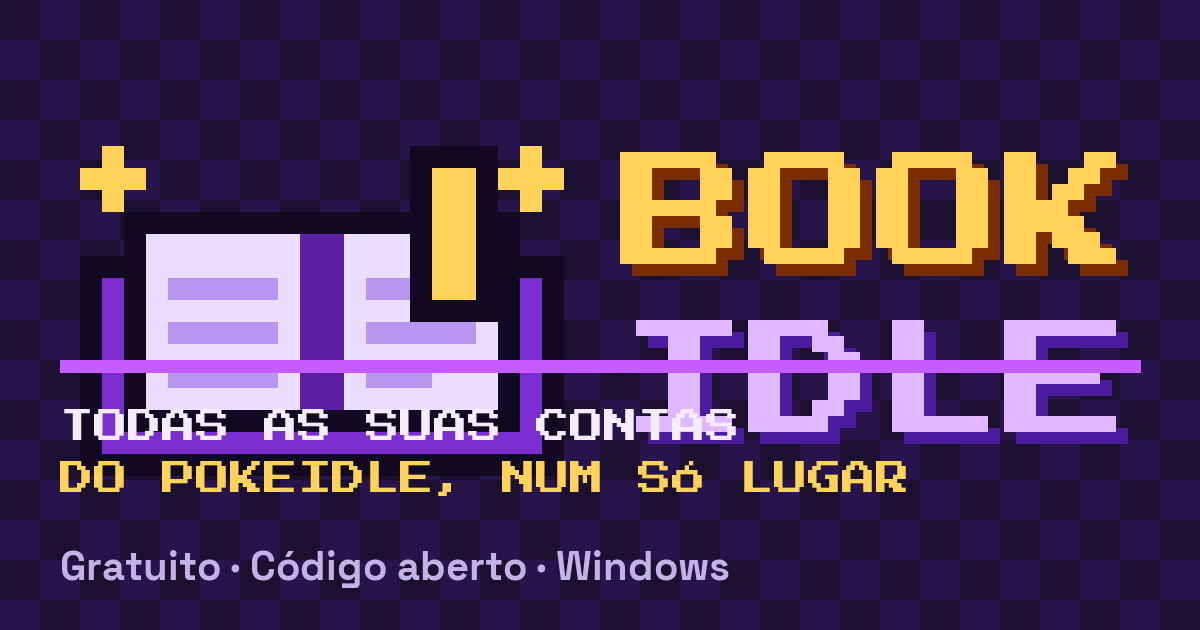
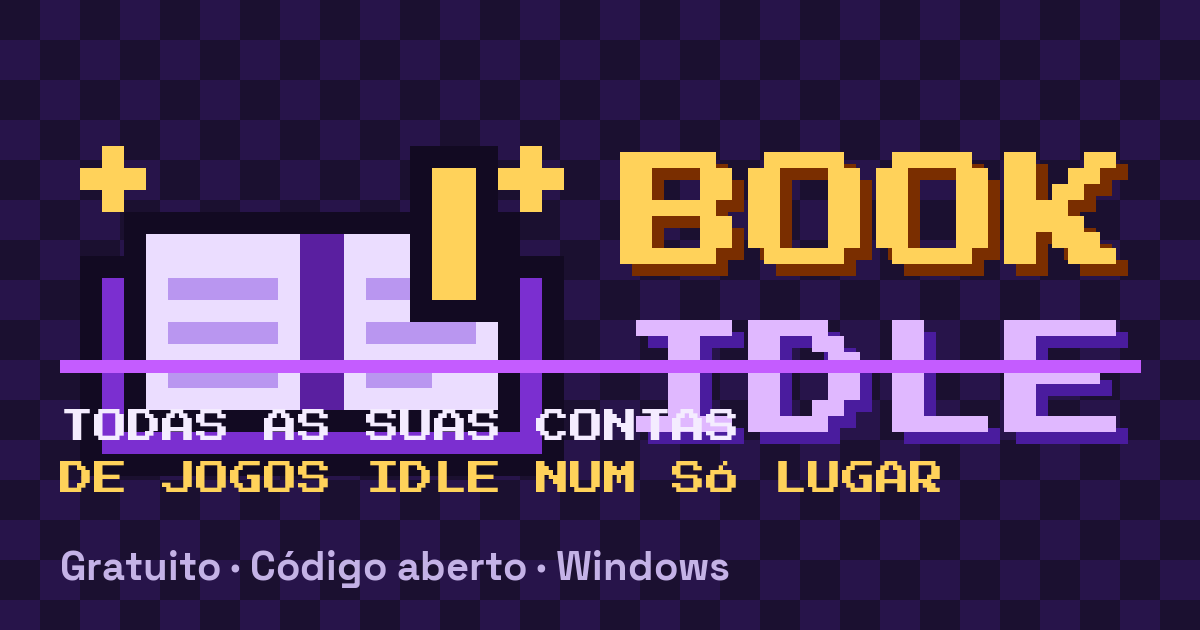
Landing page: BookIdle como gerenciador de vários jogos; pokeidle.io como primeiro jogo com suporte personalizado

Changed region(s): [[0.185, 0.7238, 0.8017, 0.7841], [0.0925, 0.7238, 0.1542, 0.7841]]

diff --git a/index.html b/index.html
@@ -3,14 +3,14 @@
 <head>
 <meta charset="utf-8">
 <meta name="viewport" content="width=device-width, initial-scale=1">
-<title>BookIdle — contas do pokeidle.io num só lugar</title>
-<meta name="description" content="BookIdle: gerenciador de contas e ferramentas para o pokeidle.io. Várias contas lado a lado, voto no TopIdle, bônus de live da Twitch, ranking de hunts e sniper do mercado. Gratuito e de código aberto, para Windows.">
+<title>BookIdle — gerenciador de contas para jogos idle</title>
+<meta name="description" content="BookIdle: gerenciador de contas para jogos idle. Várias contas lado a lado, cada uma num navegador isolado, com ferramentas personalizadas por jogo (hoje, para o pokeidle.io). Gratuito e de código aberto, para Windows.">
 <meta name="theme-color" content="#1B1030">
 <link rel="icon" href="/favicon.ico" sizes="any">
 <link rel="apple-touch-icon" href="/img/icon-192.png">
 <meta property="og:type" content="website">
-<meta property="og:title" content="BookIdle — contas do pokeidle.io num só lugar">
-<meta property="og:description" content="Várias contas lado a lado, voto no TopIdle, bônus da Twitch, hunts e sniper do mercado. Gratuito e de código aberto.">
+<meta property="og:title" content="BookIdle — gerenciador de contas para jogos idle">
+<meta property="og:description" content="Várias contas de jogos idle lado a lado, com ferramentas personalizadas por jogo. Gratuito e de código aberto.">
 <meta property="og:image" content="/img/og.png">
 <meta name="twitter:card" content="summary_large_image">
 <link rel="preload" href="/fonts/PressStart2P-Regular.ttf" as="font" type="font/ttf" crossorigin>
@@ -108,7 +108,10 @@ h1 em { font-style: normal; color: var(--yellow); }
 .card ul { margin: 0; padding-left: 20px; color: var(--muted); font-size: 16px; }
 .card li + li { margin-top: 4px; }
 .c1 .ico { background: var(--blue); } .c2 .ico { background: var(--yellow); } .c3 .ico { background: var(--purple); }
-.c4 .ico { background: var(--green); } .c5 .ico { background: var(--orange); } .c6 .ico { background: var(--pink); }
+.c4 .ico { background: var(--green); }
+.grid.four, .grid.games { grid-template-columns: repeat(auto-fit, minmax(min(100%, 440px), 1fr)); }
+.grid.games { align-items: stretch; }
+.dashed { border-style: dashed; background: transparent; box-shadow: none; } .c5 .ico { background: var(--orange); } .c6 .ico { background: var(--pink); }
 .tag { display: inline-block; font-family: var(--pixel); font-size: 9px; padding: 5px 7px; border-radius: 6px; border: 2px solid var(--outline); background: var(--field); color: var(--green); vertical-align: middle; margin-left: 6px; }
 
 /* ---- telas ---- */
@@ -166,6 +169,7 @@ footer { border-top: 3px solid var(--outline); background: var(--side); padding-
       <span>BookIdle</span>
     </a>
     <a class="link" href="#recursos">Recursos</a>
+    <a class="link" href="#jogos">Jogos</a>
     <a class="link" href="#privacidade">Privacidade</a>
     <a class="link" href="#codigo-aberto">Código aberto</a>
     <a class="link" href="#faq">Dúvidas</a>
@@ -183,22 +187,22 @@ footer { border-top: 3px solid var(--outline); background: var(--side); padding-
             <span class="badge purple">Código aberto · MIT</span>
             <span class="badge">Windows 10 e 11</span>
           </div>
-          <h1>Todas as suas contas do <em>Pokéidle</em> num só lugar</h1>
-          <p class="lead">O BookIdle abre várias contas do <strong>pokeidle.io</strong> lado a lado, lembra a hora de votar no TopIdle, mantém você presente nas lives de bônus da Twitch, mostra qual hunt rende mais e compra no mercado por você, tudo no seu computador.</p>
+          <h1>Todas as suas contas de <em>jogos idle</em> num só lugar</h1>
+          <p class="lead">O BookIdle abre várias contas lado a lado, cada uma num navegador isolado, com janelas organizadas, memória sob controle e atualização automática. Quando um jogo tem ferramentas feitas sob medida, elas aparecem aqui, no seu computador.</p>
           <div class="cta">
             <a class="btn btn-primary" href="https://github.com/PatrickKenji/BookIdle-releases/releases/latest/download/BookIdle-win-Setup.exe">Baixar para Windows</a>
             <a class="btn btn-secondary" href="https://github.com/PatrickKenji/BookIdle-releases">Ver no GitHub</a>
           </div>
-          <p class="fineprint">Instalador de ~83 MB, sem pedir administrador. Atualiza sozinho. Projeto não oficial, sem ligação com o pokeidle.io.</p>
+          <p class="fineprint">Instalador de ~83 MB, sem pedir administrador. Atualiza sozinho. Projeto independente, sem ligação com nenhum dos jogos.</p>
         </div>
         <div class="shot">
-          <img src="/img/janela-principal.png" width="1344" height="780" alt="Janela principal do BookIdle: lista de contas na lateral com botões de voto e Twitch, e o jogo aberto ao lado">
+          <img src="/img/janela-principal.png" width="1344" height="780" alt="Janela principal do BookIdle: lista de contas na lateral e o jogo aberto ao lado">
         </div>
       </div>
 
       <div class="only-banner pixel-box" role="note">
-        <span class="pixel">POR ENQUANTO</span>
-        <p><strong>O BookIdle é só para o pokeidle.io.</strong> As ferramentas (voto, Twitch, hunts, sniper) foram feitas para ele. Se o pessoal quiser, vamos trabalhar em ferramentas para <strong>outros jogos idle</strong>. <a href="https://github.com/PatrickKenji/BookIdle-releases/discussions">Diga qual jogo você quer</a>.</p>
+        <span class="pixel">EM EVOLUÇÃO</span>
+        <p><strong>O BookIdle é um gerenciador para vários jogos idle.</strong> As ferramentas personalizadas por jogo são criadas conforme a necessidade de quem joga. <strong>Hoje temos suporte personalizado para o pokeidle.io</strong>; os próximos dependem de você. <a href="#jogos">Veja os jogos</a>.</p>
       </div>
     </div>
   </section>
@@ -206,61 +210,79 @@ footer { border-top: 3px solid var(--outline); background: var(--side); padding-
   <section id="recursos">
     <div class="wrap">
       <div class="section-head">
-        <h2>Tudo para o pokeidle.io</h2>
-        <p class="lead">Pense nele como o painel de controle das suas contas.</p>
+        <h2>Para qualquer jogo idle</h2>
+        <p class="lead">O painel de controle das suas contas, seja qual for o jogo de navegador.</p>
       </div>
-      <div class="grid">
+      <div class="grid four">
         <article class="card pixel-box c1">
           <div class="ico" aria-hidden="true">🗂</div>
           <h3>Contas lado a lado</h3>
-          <p>Cada conta tem o próprio navegador isolado, então as sessões não se misturam.</p>
+          <p>Cada conta tem o próprio navegador isolado, então as sessões e os cookies não se misturam.</p>
           <ul>
             <li>4 modos de janela: Abas, Grade, 1+N e Livre</li>
             <li>Arraste para reordenar; mute por conta</li>
-            <li>Mostra a memória de cada conta e recarrega a que passar do limite</li>
-            <li>Vai para a bandeja e pode iniciar com o Windows</li>
+            <li>Tema Arcade ou Escuro, e zoom por perfil</li>
           </ul>
         </article>
         <article class="card pixel-box c2">
-          <div class="ico" aria-hidden="true">🗳</div>
-          <h3>Votar no TopIdle</h3>
-          <p>Um botão por conta abre a página de voto com a sessão daquela conta e mostra <strong>quanto falta</strong> para votar de novo. Fica amarelo quando já dá. Você vota; o app não clica por você.</p>
+          <div class="ico" aria-hidden="true">🎮</div>
+          <h3>Um perfil por jogo</h3>
+          <p>Crie um perfil para cada jogo web, cada um com a sua lista de contas, o seu limite de contas e as suas janelas.</p>
         </article>
         <article class="card pixel-box c3">
-          <div class="ico" aria-hidden="true">📺</div>
-          <h3>Bônus de live da Twitch</h3>
-          <p>Cada conta fica presente no chat dos canais de bônus <strong>sem você abrir nenhuma live</strong> e sem gastar a memória de um navegador por canal.</p>
+          <div class="ico" aria-hidden="true">🔐</div>
+          <h3>Cofre de senhas opcional</h3>
+          <p>Criptografado no seu PC, com o seu usuário do Windows ou uma senha mestra. Login automático opcional. Para contas Google, o app nunca digita a sua senha.</p>
         </article>
         <article class="card pixel-box c4">
-          <div class="ico" aria-hidden="true">📈</div>
-          <h3>/hunt<span class="tag">XP e ouro</span></h3>
-          <p>Para o Pokémon em campo de cada conta, mostra as melhores hunts por <strong>XP/h</strong> e por <strong>ouro/h líquido</strong>, com o risco de cada uma. Usa as fórmulas do próprio jogo, ao vivo, e entende o dia sazonal.</p>
-        </article>
-        <article class="card pixel-box c5">
-          <div class="ico" aria-hidden="true">🎯</div>
-          <h3>Sniper do mercado</h3>
-          <p>Compra em segundo plano o que bate com as suas regras.</p>
+          <div class="ico" aria-hidden="true">🧠</div>
+          <h3>Leve e sob controle</h3>
           <ul>
-            <li>Até 15 regras por conta, com teto em coins e em gemas</li>
-            <li>Radar de shiny, P5 e nota mínima</li>
-            <li>Reserva de saldo que nunca é gasta</li>
-            <li>Respeita a retenção e o sorteio do mercado</li>
+            <li>Mostra a memória de cada conta e recarrega a que passar do limite</li>
+            <li>Bloqueio de anúncios e rastreadores por lista de domínios</li>
+            <li>Vai para a bandeja e pode iniciar com o Windows</li>
+            <li>Atualiza sozinho, baixando só o que mudou</li>
           </ul>
-        </article>
-        <article class="card pixel-box c6">
-          <div class="ico" aria-hidden="true">🔄</div>
-          <h3>Atualiza sozinho</h3>
-          <p>O app confere versões novas ao abrir e de hora em hora, avisa e atualiza com um clique, baixando só o que mudou.</p>
         </article>
       </div>
     </div>
   </section>
 
-  <section id="telas" class="band">
+  <section id="jogos" class="band">
+    <div class="wrap">
+      <div class="section-head">
+        <h2>Jogos com suporte personalizado</h2>
+        <p class="lead">Além do básico, alguns jogos ganham ferramentas feitas sob medida. Começamos por um e vamos criar mais conforme as necessidades.</p>
+      </div>
+      <div class="grid games">
+        <article class="card pixel-box c5">
+          <div class="ico" aria-hidden="true">⚡</div>
+          <h3>pokeidle.io<span class="tag">Disponível</span></h3>
+          <ul>
+            <li><strong>Voto no TopIdle:</strong> um botão por conta que mostra quanto falta para votar de novo. Você vota; o app não clica por você.</li>
+            <li><strong>Bônus de live da Twitch:</strong> cada conta presente no chat dos canais de bônus, sem abrir nenhuma live.</li>
+            <li><strong>/hunt:</strong> a melhor hunt de cada conta por XP/h e ouro/h líquido, com as fórmulas do próprio jogo, ao vivo.</li>
+            <li><strong>Sniper do mercado:</strong> compra em segundo plano o que bate com as suas regras, com radar de shiny, P5 e nota, e reserva de saldo.</li>
+          </ul>
+        </article>
+        <article class="card pixel-box dashed">
+          <div class="ico" aria-hidden="true">➕</div>
+          <h3>O seu jogo aqui</h3>
+          <p>Joga outro jogo idle e sente falta de alguma ferramenta? Conte qual jogo e o que faria diferença para você. As próximas ferramentas nascem desses pedidos.</p>
+          <div class="cta" style="margin:6px 0 0">
+            <a class="btn btn-secondary btn-small" href="https://github.com/PatrickKenji/BookIdle-releases/discussions">Pedir um jogo</a>
+          </div>
+        </article>
+      </div>
+      <p class="fineprint" style="margin-top:22px">O BookIdle é independente e não tem nenhum vínculo com o pokeidle.io nem com os outros jogos: ele só automatiza o que você faria na mão, no seu computador, e cada jogo tem as suas próprias regras.</p>
+    </div>
+  </section>
+
+  <section id="telas">
     <div class="wrap">
       <div class="section-head">
         <h2>Como é por dentro</h2>
-        <p class="lead">Capturas com dados de exemplo. Clique para ampliar.</p>
+        <p class="lead">As ferramentas do pokeidle.io, com dados de exemplo. Clique para ampliar.</p>
       </div>
       <div class="shots">
         <figure>
@@ -275,7 +297,7 @@ footer { border-top: 3px solid var(--outline); background: var(--side); padding-
     </div>
   </section>
 
-  <section id="privacidade">
+  <section id="privacidade" class="band">
     <div class="wrap two">
       <div>
         <div class="section-head">
@@ -291,9 +313,9 @@ footer { border-top: 3px solid var(--outline); background: var(--side); padding-
       </div>
       <div class="pixel-box" style="padding:24px">
         <h3 style="margin-bottom:14px;color:var(--yellow)">Com quem o app conversa</h3>
-        <p class="muted" style="margin:0 0 14px">Só com estes endereços, e você pode conferir no código:</p>
+        <p class="muted" style="margin:0 0 14px">Além dos sites dos jogos que você abrir, só com estes endereços, e você pode conferir no código:</p>
         <div class="code-box pixel-box">
-pokeidle.io<span class="c">   · o jogo e a lista de itens</span><br>
+pokeidle.io<span class="c">   · lista de itens (ferramentas dele)</span><br>
 topidle.com<span class="c">   · a página de voto</span><br>
 twitch.tv<span class="c">     · só se você conectar a Twitch</span><br>
 github.com<span class="c">    · conferir e baixar atualizações</span><br>
@@ -303,7 +325,7 @@ livepix.gg<span class="c">    · só se você clicar em Apoiar</span>
     </div>
   </section>
 
-  <section id="codigo-aberto" class="band">
+  <section id="codigo-aberto">
     <div class="wrap two">
       <div>
         <div class="section-head">
@@ -323,7 +345,7 @@ livepix.gg<span class="c">    · só se você clicar em Apoiar</span>
     </div>
   </section>
 
-  <section id="instalar">
+  <section id="instalar" class="band">
     <div class="wrap">
       <div class="section-head">
         <h2>Como instalar</h2>
@@ -344,24 +366,24 @@ livepix.gg<span class="c">    · só se você clicar em Apoiar</span>
     </div>
   </section>
 
-  <section id="faq" class="band">
+  <section id="faq">
     <div class="wrap">
       <div class="section-head"><h2>Dúvidas</h2></div>
       <details class="pixel-box">
-        <summary>É oficial? Vocês têm ligação com o pokeidle.io?</summary>
-        <p>Não. O BookIdle é um projeto independente, sem ligação com o pokeidle.io, o TopIdle, a Twitch, a Nintendo ou a The Pokémon Company. Todas as marcas são dos respectivos donos.</p>
+        <summary>É oficial? Vocês têm ligação com algum jogo?</summary>
+        <p>Não. O BookIdle é um projeto independente, <strong>sem nenhum vínculo com o pokeidle.io</strong> nem com os outros jogos que você abrir nele, e sem ligação com o TopIdle, a Twitch, a Nintendo ou a The Pokémon Company. Todas as marcas são dos respectivos donos.</p>
       </details>
       <details class="pixel-box">
         <summary>Posso ser banido por usar?</summary>
-        <p>O jogo permite automação que siga as mesmas regras de quem joga na mão, e o sniper foi feito assim. Mas <strong>o limite de contas é seu</strong>: o pokeidle.io permite hoje 4 contas por pessoa, somando todos os computadores e redes. Leia os termos do jogo; você é responsável pelo uso.</p>
+        <p>Cada jogo tem as suas regras, e <strong>você é responsável por segui-las</strong>, inclusive o limite de contas por pessoa. No pokeidle.io, único com ferramentas automáticas hoje, o jogo permite automação que siga as mesmas regras de quem joga na mão e hoje limita a 4 contas por pessoa, somando todos os computadores e redes. Leia os termos do jogo que você usa.</p>
       </details>
       <details class="pixel-box">
-        <summary>O sniper gasta moedas de verdade?</summary>
+        <summary>O sniper do pokeidle.io gasta moedas de verdade?</summary>
         <p>Sim, gasta coins e gemas do jogo. Comece com regras pequenas e uma reserva de saldo alta, e acompanhe o feed de eventos. Uma compra feita não é desfeita pelo jogo.</p>
       </details>
       <details class="pixel-box">
-        <summary>Funciona para outros jogos idle?</summary>
-        <p>O BookIdle abre qualquer jogo web em perfis separados, então já serve como gerenciador de várias contas. Mas as ferramentas especiais (voto, hunts, sniper, Twitch) são só do pokeidle.io. <a href="https://github.com/PatrickKenji/BookIdle-releases/discussions">Conte qual jogo você quer</a> e vamos avaliar.</p>
+        <summary>Funciona com outros jogos idle?</summary>
+        <p>Sim: o BookIdle abre qualquer jogo de navegador em perfis separados e já serve como gerenciador de várias contas. As ferramentas personalizadas (voto, hunts, sniper, Twitch) existem hoje só para o pokeidle.io, e novas são criadas conforme a necessidade. <a href="https://github.com/PatrickKenji/BookIdle-releases/discussions">Conte qual jogo você quer</a>.</p>
       </details>
       <details class="pixel-box">
         <summary>Tem custo? Como ajudar?</summary>
@@ -380,7 +402,7 @@ livepix.gg<span class="c">    · só se você clicar em Apoiar</span>
       <a href="https://github.com/PatrickKenji/BookIdle-releases/blob/main/LICENSE">Licença MIT</a>
       <a href="https://livepix.gg/tickelicia">♥ Apoiar</a>
     </div>
-    <small>© 2026 Tickelicia. BookIdle é software livre (MIT), fornecido "como está", sem garantias. Projeto não oficial: não tem ligação com o pokeidle.io, o TopIdle, a Twitch, a Nintendo ou a The Pokémon Company; todas as marcas pertencem aos seus donos. Fontes Press Start 2P e Space Grotesk sob licença OFL.</small>
+    <small>© 2026 Tickelicia. BookIdle é software livre (MIT), fornecido "como está", sem garantias. Projeto independente: não tem nenhum vínculo com o pokeidle.io nem com os outros jogos abertos nele, nem com o TopIdle, a Twitch, a Nintendo ou a The Pokémon Company; todas as marcas pertencem aos seus donos. Fontes Press Start 2P e Space Grotesk sob licença OFL.</small>
   </div>
 </footer>
 </body>

diff --git a/README.md b/README.md
@@ -1,7 +1,7 @@
 # BookIdle — site
 
-Página de apresentação do [BookIdle](https://github.com/PatrickKenji/BookIdle-releases), gerenciador de contas e ferramentas
-para o pokeidle.io (gratuito e de código aberto).
+Página de apresentação do [BookIdle](https://github.com/PatrickKenji/BookIdle-releases), gerenciador de contas
+para jogos idle, com ferramentas personalizadas por jogo (gratuito e de código aberto).
 
 Site estático, sem build: `index.html` + `fonts/` + `img/`. Para ver localmente:
 
